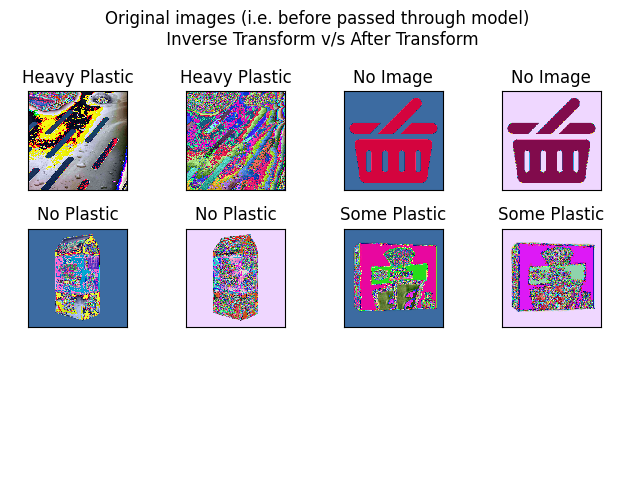
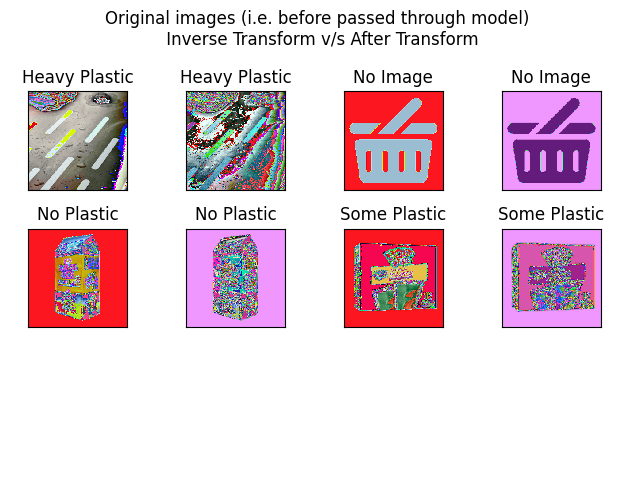
analyzing filters and their effect on each class of input image

diff --git a/effects_of_filters.py b/effects_of_filters.py
@@ -1,4 +1,5 @@
 # import the necessary libraries
+import cv2
 import matplotlib.pyplot as plt
 import numpy as np
 import torch
@@ -67,7 +68,144 @@ for i in range(len(images) * 2):
 plt.savefig('./augmented_images/original_images.png')
 plt.show()
 
-# had a doubt with trainable params
-model_parameters = filter(lambda p: p.requires_grad, model.parameters())
-params = sum([np.prod(p.size()) for p in model_parameters])
-print("Total trainable params in model : ", params)
+# visualyzing each filter and their effect on each class of images when passed through the model
+# get the first convolutional layer of the model
+conv1 = model.conv1
+
+# get the weights of the first convolutional layer
+weights = conv1.weight.data
+weights = weights.cpu()
+
+# get the number of filters
+n_filters = weights.shape[0]
+
+# get the number of channels
+n_channels = weights.shape[1]
+
+# get the size of the filters
+filter_size = weights.shape[2]
+
+# create a figure to plot the filters
+plt.figure(figsize=(8, 8))
+plt.suptitle("Filters of the first convolutional layer")
+for i in range(n_filters):
+    plt.subplot(8, 8, i + 1)
+    plt.imshow(weights[i][0], interpolation='none', cmap='gray')
+    plt.xticks([])
+    plt.yticks([])
+plt.autoscale(tight=True)
+plt.savefig('./augmented_images/filters/conv1.png')
+plt.show()
+
+# create a figure to plot the effect of each filter on each class of images
+plt.figure(figsize=(8, 64))
+plt.suptitle("Effect of each filter in conv1 on each class of images")
+for i in range(n_filters * 5):
+    plt.subplot(n_filters, 5, i + 1)
+
+    if i % 5 == 0:
+        plt.imshow(weights[i // 5][0], interpolation='none', cmap='gray')
+        plt.ylabel(str(i // 5))
+    elif i % 5 == 1:
+        image = cv2.filter2D(np.array(images[0]), -1, weights[i // 5][0].numpy())
+        image = np.maximum(image, 0, image)
+        plt.imshow(image, interpolation='none')
+    elif i % 5 == 2:
+        image = cv2.filter2D(np.array(images[1]), -1, weights[i // 5][0].numpy())
+        image = np.maximum(image, 0, image)
+        plt.imshow(image, interpolation='none')
+    elif i % 5 == 3:
+        image = cv2.filter2D(np.array(images[2]), -1, weights[i // 5][0].numpy())
+        image = np.maximum(image, 0, image)
+        plt.imshow(image, interpolation='none')
+    elif i % 5 == 4:
+        image = cv2.filter2D(np.array(images[3]), -1, weights[i // 5][0].numpy())
+        image = np.maximum(image, 0, image)
+        plt.imshow(image, interpolation='none')
+    plt.xticks([])
+    plt.yticks([])
+    if i // 5 == 0:
+        if i == 0:
+            plt.title("Filter")
+        elif i == 1:
+            plt.title(helper.getLabel(0))
+        elif i == 2:
+            plt.title(helper.getLabel(1))
+        elif i == 3:
+            plt.title(helper.getLabel(2))
+        elif i == 4:
+            plt.title(helper.getLabel(3))
+plt.autoscale()
+plt.savefig('./augmented_images/filters_effect/conv1.png')
+plt.show()
+
+# # get the second convolutional layer of the model
+# print(model)
+# conv2 = model.conv2
+#
+# # get the weights of the second convolutional layer
+# weights = conv2.weight.data
+# weights = weights.cpu()
+#
+# # get the number of filters
+# n_filters = weights.shape[0]
+#
+# # get the number of channels
+# n_channels = weights.shape[1]
+#
+# # get the size of the filters
+# filter_size = weights.shape[2]
+#
+# # create a figure to plot the filters
+# plt.figure(figsize=(8, 8))
+# plt.suptitle("Filters of the second convolutional layer")
+# for i in range(n_filters):
+#     plt.subplot(8, 8, i + 1)
+#     plt.imshow(weights[i][0], interpolation='none', cmap='gray')
+#     plt.xticks([])
+#     plt.yticks([])
+# plt.autoscale(tight=True)
+# plt.savefig('./augmented_images/filters/conv2.png')
+# plt.show()
+#
+# # create a figure to plot the effect of each filter on each class of images
+# plt.figure(figsize=(8, 64))
+# plt.suptitle("Effect of each filter in conv2 on each class of images")
+# for i in range(n_filters*5):
+#     plt.subplot(n_filters, 5, i + 1)
+#
+#     if i % 5 == 0:
+#         plt.imshow(weights[i//5][0], interpolation='none', cmap='gray')
+#         plt.ylabel(str(i//5))
+#     elif i % 5 == 1:
+#         image = cv2.filter2D(np.array(images[0]), -1, weights[i//5][0].numpy())
+#         image = np.maximum(image, 0, image)
+#         plt.imshow(image, interpolation='none')
+#     elif i % 5 == 2:
+#         image = cv2.filter2D(np.array(images[1]), -1, weights[i//5][0].numpy())
+#         image = np.maximum(image, 0, image)
+#         plt.imshow(image, interpolation='none')
+#     elif i % 5 == 3:
+#         image = cv2.filter2D(np.array(images[2]), -1, weights[i//5][0].numpy())
+#         image = np.maximum(image, 0, image)
+#         plt.imshow(image, interpolation='none')
+#     elif i % 5 == 4:
+#         image = cv2.filter2D(np.array(images[3]), -1, weights[i//5][0].numpy())
+#         image = np.maximum(image, 0, image)
+#         plt.imshow(image, interpolation='none')
+#     plt.xticks([])
+#     plt.yticks([])
+#     if i//5 == 0:
+#         if i == 0:
+#             plt.title("Filter")
+#         elif i == 1:
+#             plt.title(helper.getLabel(0))
+#         elif i == 2:
+#             plt.title(helper.getLabel(1))
+#         elif i == 3:
+#             plt.title(helper.getLabel(2))
+#         elif i == 4:
+#             plt.title(helper.getLabel(3))
+# plt.autoscale()
+# plt.savefig('./augmented_images/filters_effect/conv2.png')
+# plt.show()

diff --git a/Resnet50final.py b/Resnet50final.py
@@ -37,7 +37,7 @@ classification_models = models.list_models(module=models)
 print("All available models in Torch Vision : \n", classification_models)
 
 # global variables
-EPOCHS = 50
+EPOCHS = 200
 BATCH_SIZE = 64
 TRAIN_SPLIT = 0.8
 MLP_HIDDEN_SIZES = [1024, 512, 256]
